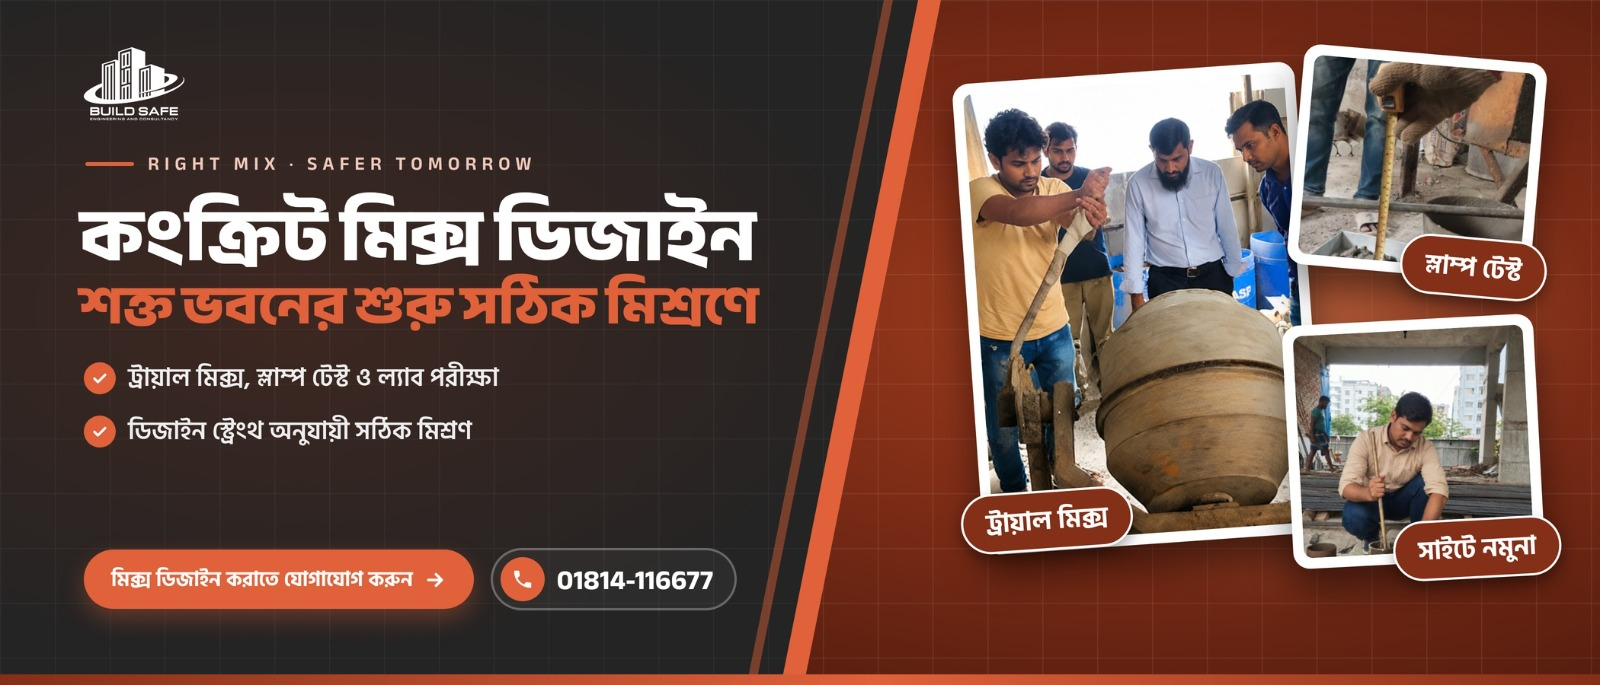
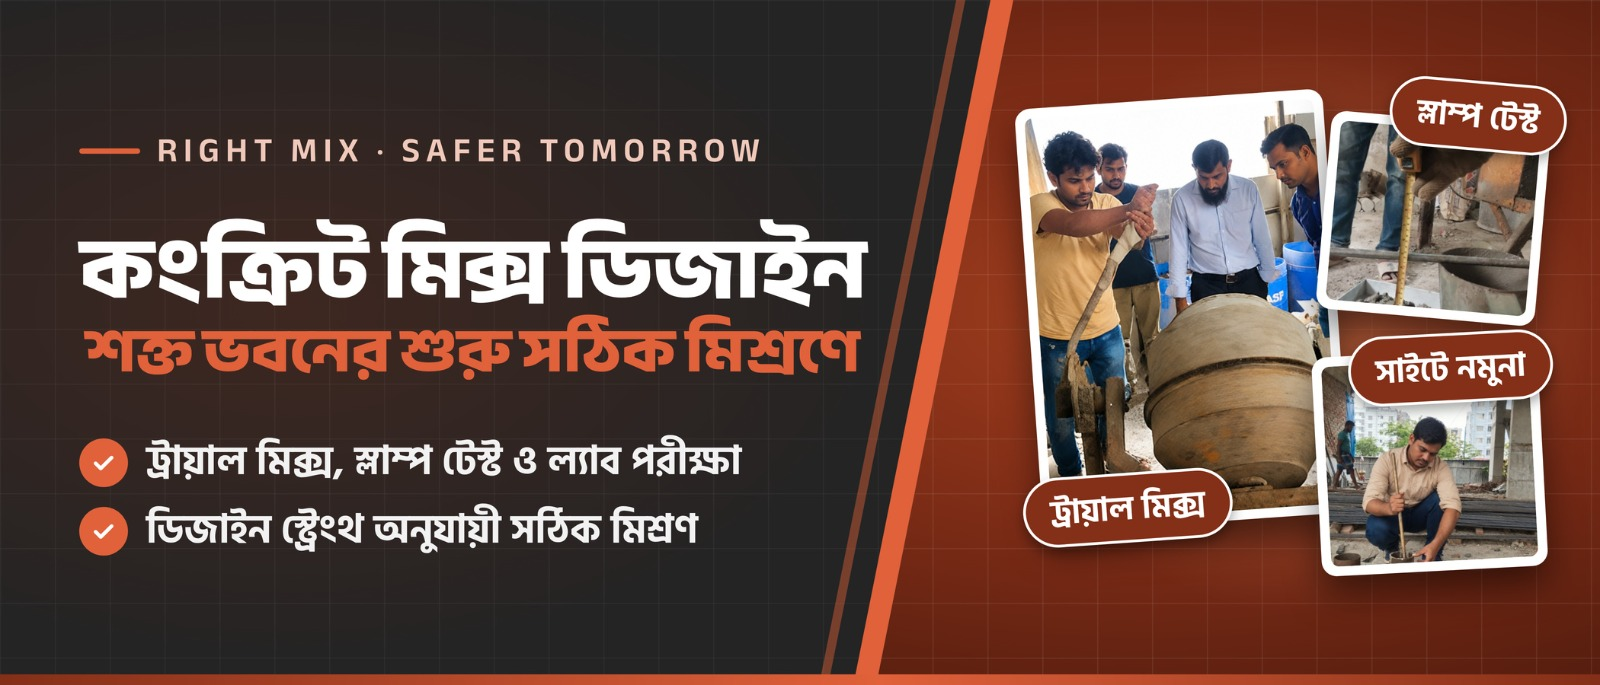
feat: add fire safety gallery dialog
* docs: record reusable preview branch workflow

* fix: keep active navigation typography consistent

* fix: polish dialog and contact controls

* feat: update about page and youtube links

* fix: preserve video fallback and update disclosures

* feat: refine about video and heading loading

* fix: preserve modified video preview clicks

* feat: update project banners and about layout

* fix: use www canonical site URLs

* feat: add fire safety gallery dialog

* docs: record fire gallery verification

diff --git a/public/projects/fire-safety-hvac/index.html b/public/projects/fire-safety-hvac/index.html
@@ -228,7 +228,7 @@
             </div>
           </dl>
                     <div class="proj-gallery">
-            <img src="/img/projects/fire-safety/project-1.jpeg" alt="ভবনের ফায়ার সেফটি ও এইচভিএসি ব্যবস্থার চিত্র" data-alt-bn="ভবনের ফায়ার সেফটি ও এইচভিএসি ব্যবস্থার চিত্র" data-alt-en="Illustration of fire safety and HVAC systems in a building" width="1024" height="768" loading="lazy" />
+            <a class="gallery-card gallery-open" href="/img/projects/fire-safety/project-1.jpeg"><img src="/img/projects/fire-safety/project-1.jpeg" alt="ভবনের ফায়ার সেফটি ও এইচভিএসি ব্যবস্থার চিত্র" data-alt-bn="ভবনের ফায়ার সেফটি ও এইচভিএসি ব্যবস্থার চিত্র" data-alt-en="Illustration of fire safety and HVAC systems in a building" width="1024" height="768" loading="lazy" /><div class="gallery-details"><h2><span lang="bn">ফায়ার সেফটি ও HVAC</span><span lang="en">Fire Safety &amp; HVAC</span></h2><p><span lang="bn">ফায়ার সেফটি ও HVAC-এর ডিজাইন, সরঞ্জাম সাপ্লাই, এবং সাইটে বাস্তবায়ন করা হয়।</span><span lang="en">Fire safety and HVAC cover design, the supply of equipment, and the work on site.</span></p></div></a>
           </div>
                     <div class="proj-actions">
             <a class="btn btn-ghost" href="/projects/"><span lang="bn">সব প্রকল্প</span><span lang="en">All projects</span></a>

diff --git a/CLAUDE.md b/CLAUDE.md
@@ -4,7 +4,7 @@
 
 Project Name: Build Safe Engineering
 Description: Bilingual Bangla/English brochure for Build Safe Engineering & Consultancy. Static pages in `public/`, WhatsApp enquiry handoff.
-Current Status: The home frame is 4:3 and cycles `hero-1.jpeg` through `hero-5.jpeg`. Each picture fades with its own caption in a stable, wrapping caption area. The office picture is 1024×678, so the frame still crops a little of each side. Each project detail page describes that category, not one job. The picture lines are “Pictures from ongoing work.”, “Pictures from on-site work.”, and “Pictures of proposed system.” Design, solar and concrete galleries have bilingual image cards and a shared native-dialog viewer, with direct image links when JavaScript or dialog support is unavailable. Detail pages keep 28px above and below the two buttons. Concrete, interior, assessment, and fire cards use 4:3 pictures. Design and solar cards use their first gallery images. The six project detail pages use their supplied wide banners; design, solar and concrete retain 4:3 gallery images. `wrangler.toml` names the existing Cloudflare Worker `divine-dream-20ba` and serves `public/`. That Worker is connected to this GitHub repository on branch `main`. The first Git build starts when the next commit reaches `main`. Vercel Production follows `main` and stays the test site. The preferred canonical address in this checkout is `https://www.buildsafe.com.bd`; deployment and the apex-to-WWW redirect require separate verification.
+Current Status: The home frame is 4:3 and cycles `hero-1.jpeg` through `hero-5.jpeg`. Each picture fades with its own caption in a stable, wrapping caption area. The office picture is 1024×678, so the frame still crops a little of each side. Each project detail page describes that category, not one job. The picture lines are “Pictures from ongoing work.”, “Pictures from on-site work.”, and “Pictures of proposed system.” Design, solar, concrete and fire-safety galleries have bilingual image cards and a shared native-dialog viewer, with direct image links when JavaScript or dialog support is unavailable. Detail pages keep 28px above and below the two buttons. Concrete, interior, assessment, and fire cards use 4:3 pictures. Design and solar cards use their first gallery images. The six project detail pages use their supplied wide banners; design, solar and concrete retain 4:3 gallery images. `wrangler.toml` names the existing Cloudflare Worker `divine-dream-20ba` and serves `public/`. That Worker is connected to this GitHub repository on branch `main`. The first Git build starts when the next commit reaches `main`. Vercel Production follows `main` and stays the test site. The preferred canonical address in this checkout is `https://www.buildsafe.com.bd`; deployment and the apex-to-WWW redirect require separate verification.
 Current Agile V Cycle: C1
 Current Gate: `GATE-0001` was superseded by later direction to build `public/`. See `.agile-v/STATE.md`.
 

diff --git a/.agile-v/VALIDATION_SUMMARY.md b/.agile-v/VALIDATION_SUMMARY.md
@@ -1,3 +1,7 @@
+## 2026-11-18 — REQ-0038 fire gallery and banners
+
+Local Chrome at 320px and 1440px checked all six replacement banners, both languages, fire card hover and keyboard Enter, dialog Escape and focus return, direct image link with scripts disabled, and existing design, concrete and solar dialogs. All 15 routes passed smoke checks; the successful run recorded no console exceptions, failed requests or HTTP errors. An independent reviewer checked the same banner and dialog behavior. JavaScript syntax and Git diff checks passed. A prior local run saw transient home image failures; the sequential rerun passed. Safari, physical devices, production and complete interaction coverage remain unverified.
+
 ## 2026-11-18 — REQ-0037 WWW canonical origin
 
 Independent source verification checked all 15 canonical and Open Graph routes, 30 JSON-LD blocks, 15 unique sitemap entries, the robots sitemap reference, 486 local href/src targets and exact preservation of page HTML apart from the origin substitution. `node --check public/js/site.js` and `git diff --check` passed. Local Chrome exercised 15 routes at 320px and 1440px, both language controls, contact validation and WhatsApp preview, three galleries, menu navigation and browser back; the recorded run had no uncaught exceptions or failed requests. Local timings are not production performance evidence. Safari, physical devices, production, the apex-to-WWW redirect and full interaction coverage remain unverified.

diff --git a/.agile-v/STATE.md b/.agile-v/STATE.md
@@ -1,3 +1,14 @@
+## 2026-11-18 — Fire gallery and banners
+
+- `REQ-0038` is implemented and locally verified on `preview-branch`; the six supplied banners and fire-safety bilingual gallery card are included. See VALIDATION_SUMMARY.md for checks and limits.
+- The user authorized push, PR and squash merge after checks. Next: synchronize with `main` without discarding work, complete the PR workflow, retain `preview-branch`, and verify deployment separately.
+
+## 2026-11-18 — WWW migration PR merged
+
+- `REQ-0037`: PR #37 squash-merged into `main` as `7e768c2cee9f679e34057921aa048bddf4a1964e`; `preview-branch` is retained. GitGuardian and Vercel checks passed. See VALIDATION_SUMMARY.md for local verification and limits.
+- Immediately after merge, the live WWW home page still declared the non-WWW canonical and the apex returned HTTP 200. Deployment and the separate apex-to-WWW redirect are not yet verified.
+- Next: verify the Cloudflare deployment serves the merged canonical and sitemap, then configure and test the approved path- and query-preserving 301 in Cloudflare as a separate step.
+
 ## 2026-11-18 — WWW canonical migration checkpoint
 
 - Cycle C1; `REQ-0037` supersedes the canonical-origin direction in `REQ-0015`. The client selected `https://www.buildsafe.com.bd`. The approved site changes are prepared on `preview-branch`.

diff --git a/.agile-v/REQUIREMENTS.md b/.agile-v/REQUIREMENTS.md
@@ -1,3 +1,7 @@
+## REQ-0038 Fire safety gallery and project banners (approved 2026-11-18)
+
+Show the fire safety illustration in a bilingual card using the existing shared hover and accessible gallery dialog, with direct image fallback. Preserve existing copy and do not present the illustration as a specific project. Include the six supplied replacement project banners with their existing paths and proportions. Preserve other galleries and project routes.
+
 ## REQ-0037 WWW canonical origin (approved in conversation 2026-11-18)
 
 Use `https://www.buildsafe.com.bd` for the 15 pages’ canonical and social metadata, site-owned JSON-LD URLs, sitemap entries, and robots sitemap reference. Preserve routes, page content, descriptions, and existing functionality. Update affected current documentation. The existing `REQ-0015` origin and proposed reverse redirect are superseded by this client decision; historical records remain intact.

diff --git a/.agile-v/TASKS.md b/.agile-v/TASKS.md
@@ -1,3 +1,7 @@
+## REQ-0038
+
+- Fire-safety bilingual gallery and six supplied banners implemented; local and independent verification is recorded in VALIDATION_SUMMARY.md. Complete the authorized PR workflow and verify deployment separately.
+
 ## 2026-11-18 — WWW canonical migration
 
 - `REQ-0037`: implementation and local verification completed on `preview-branch`; independently recheck the final diff and reconcile current documentation. Preserve historical records.
